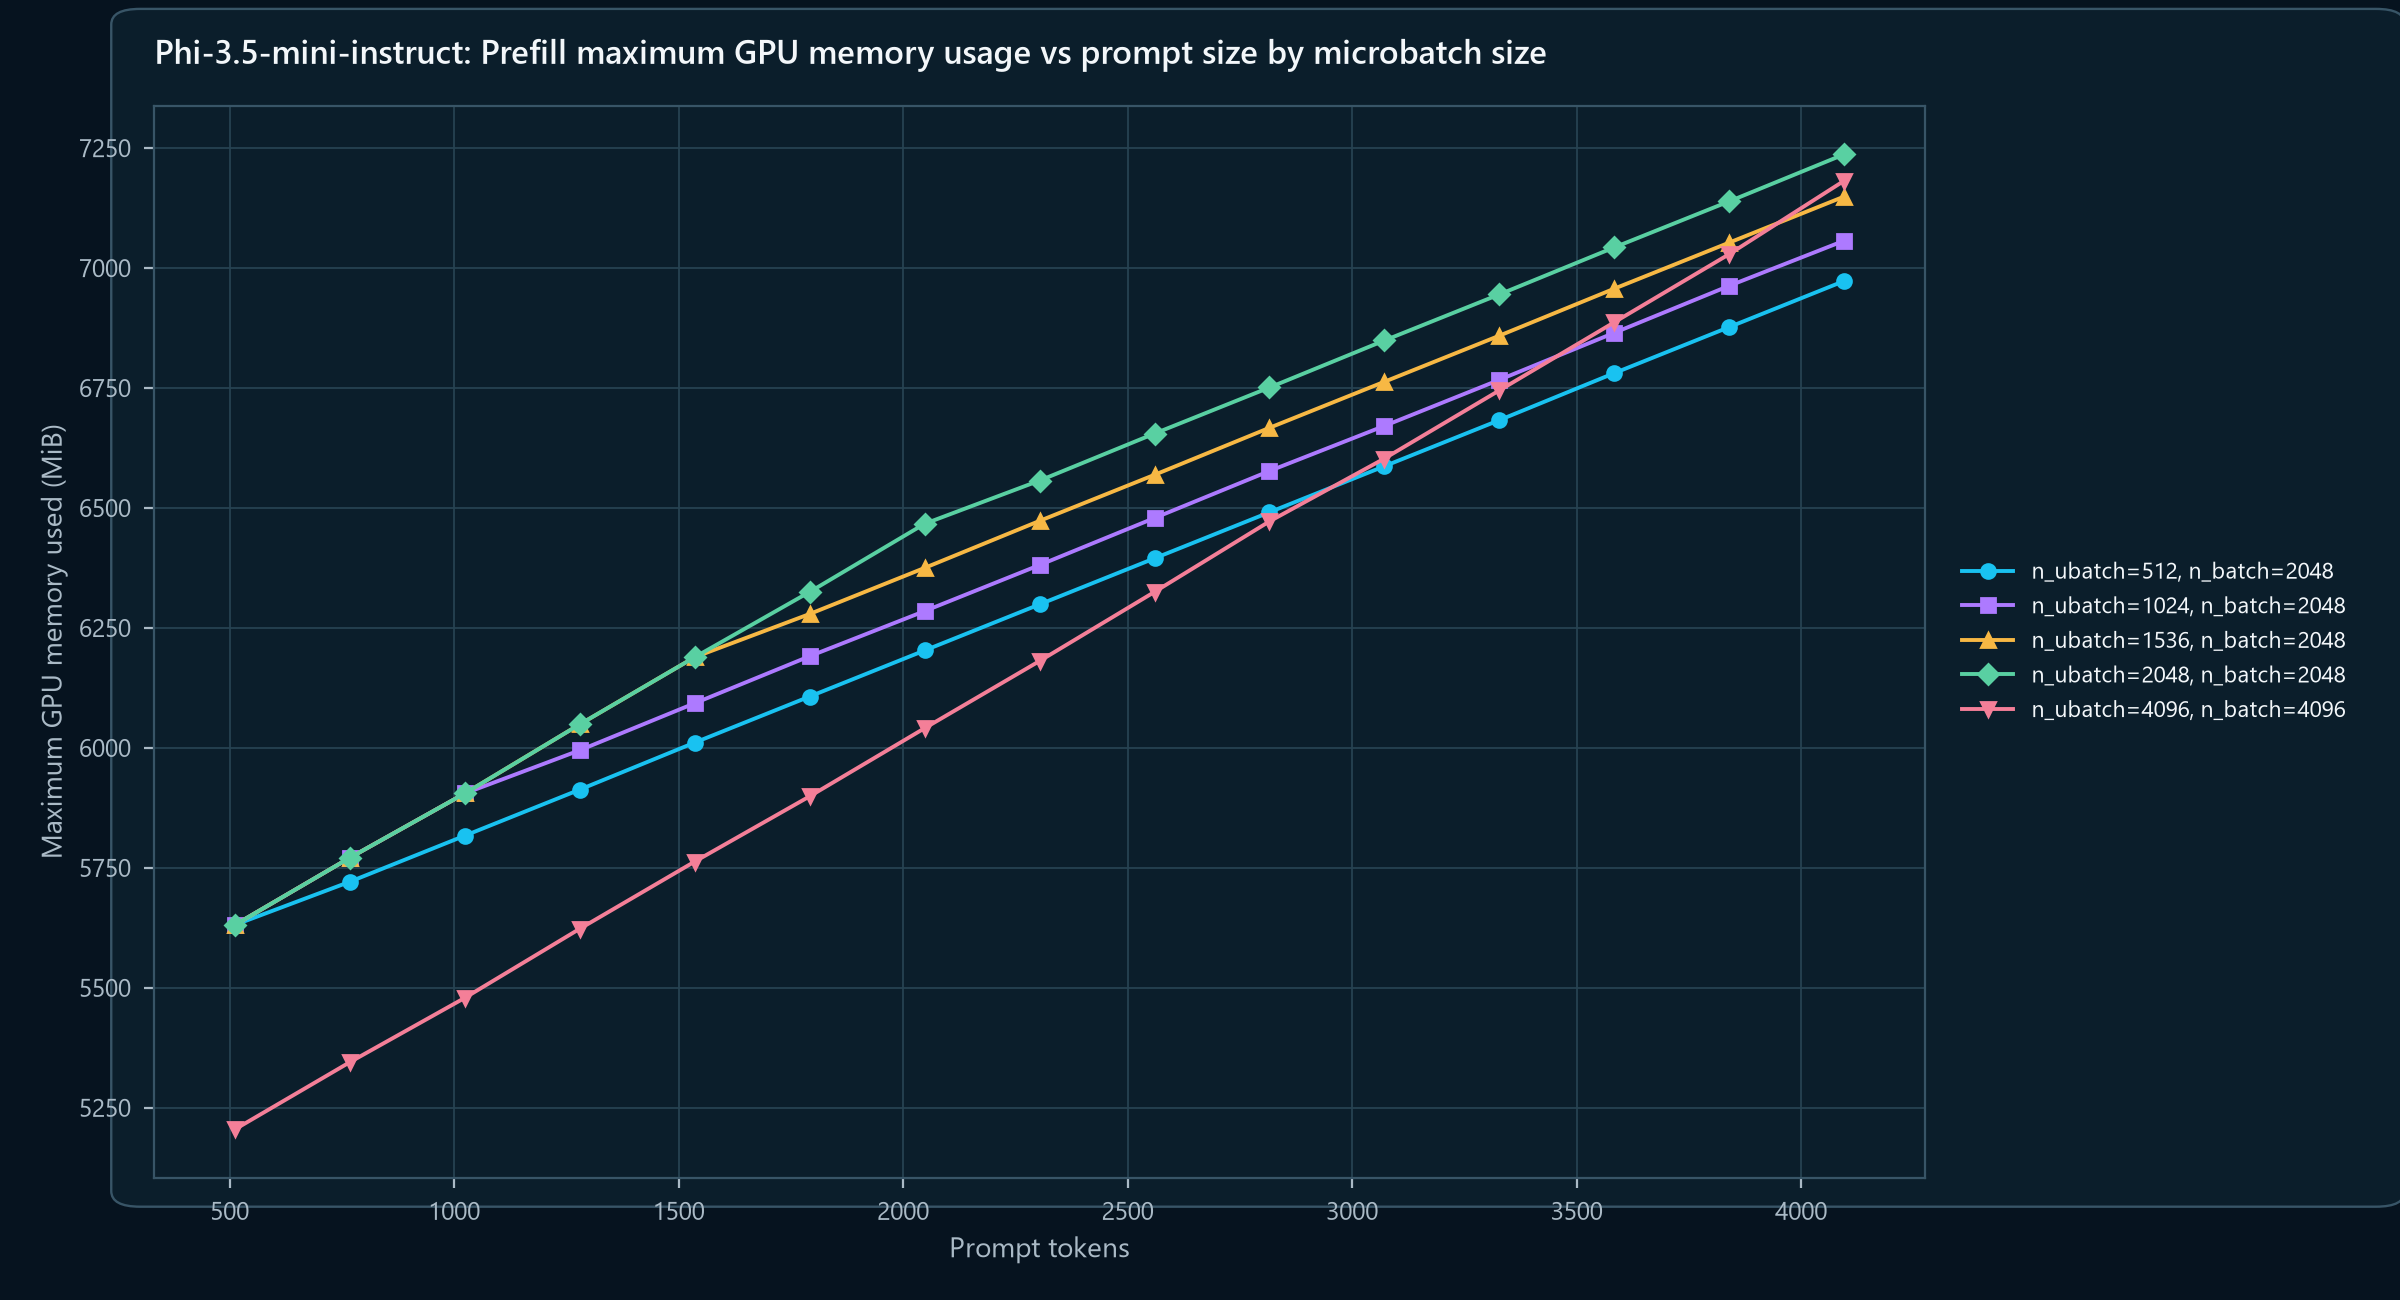
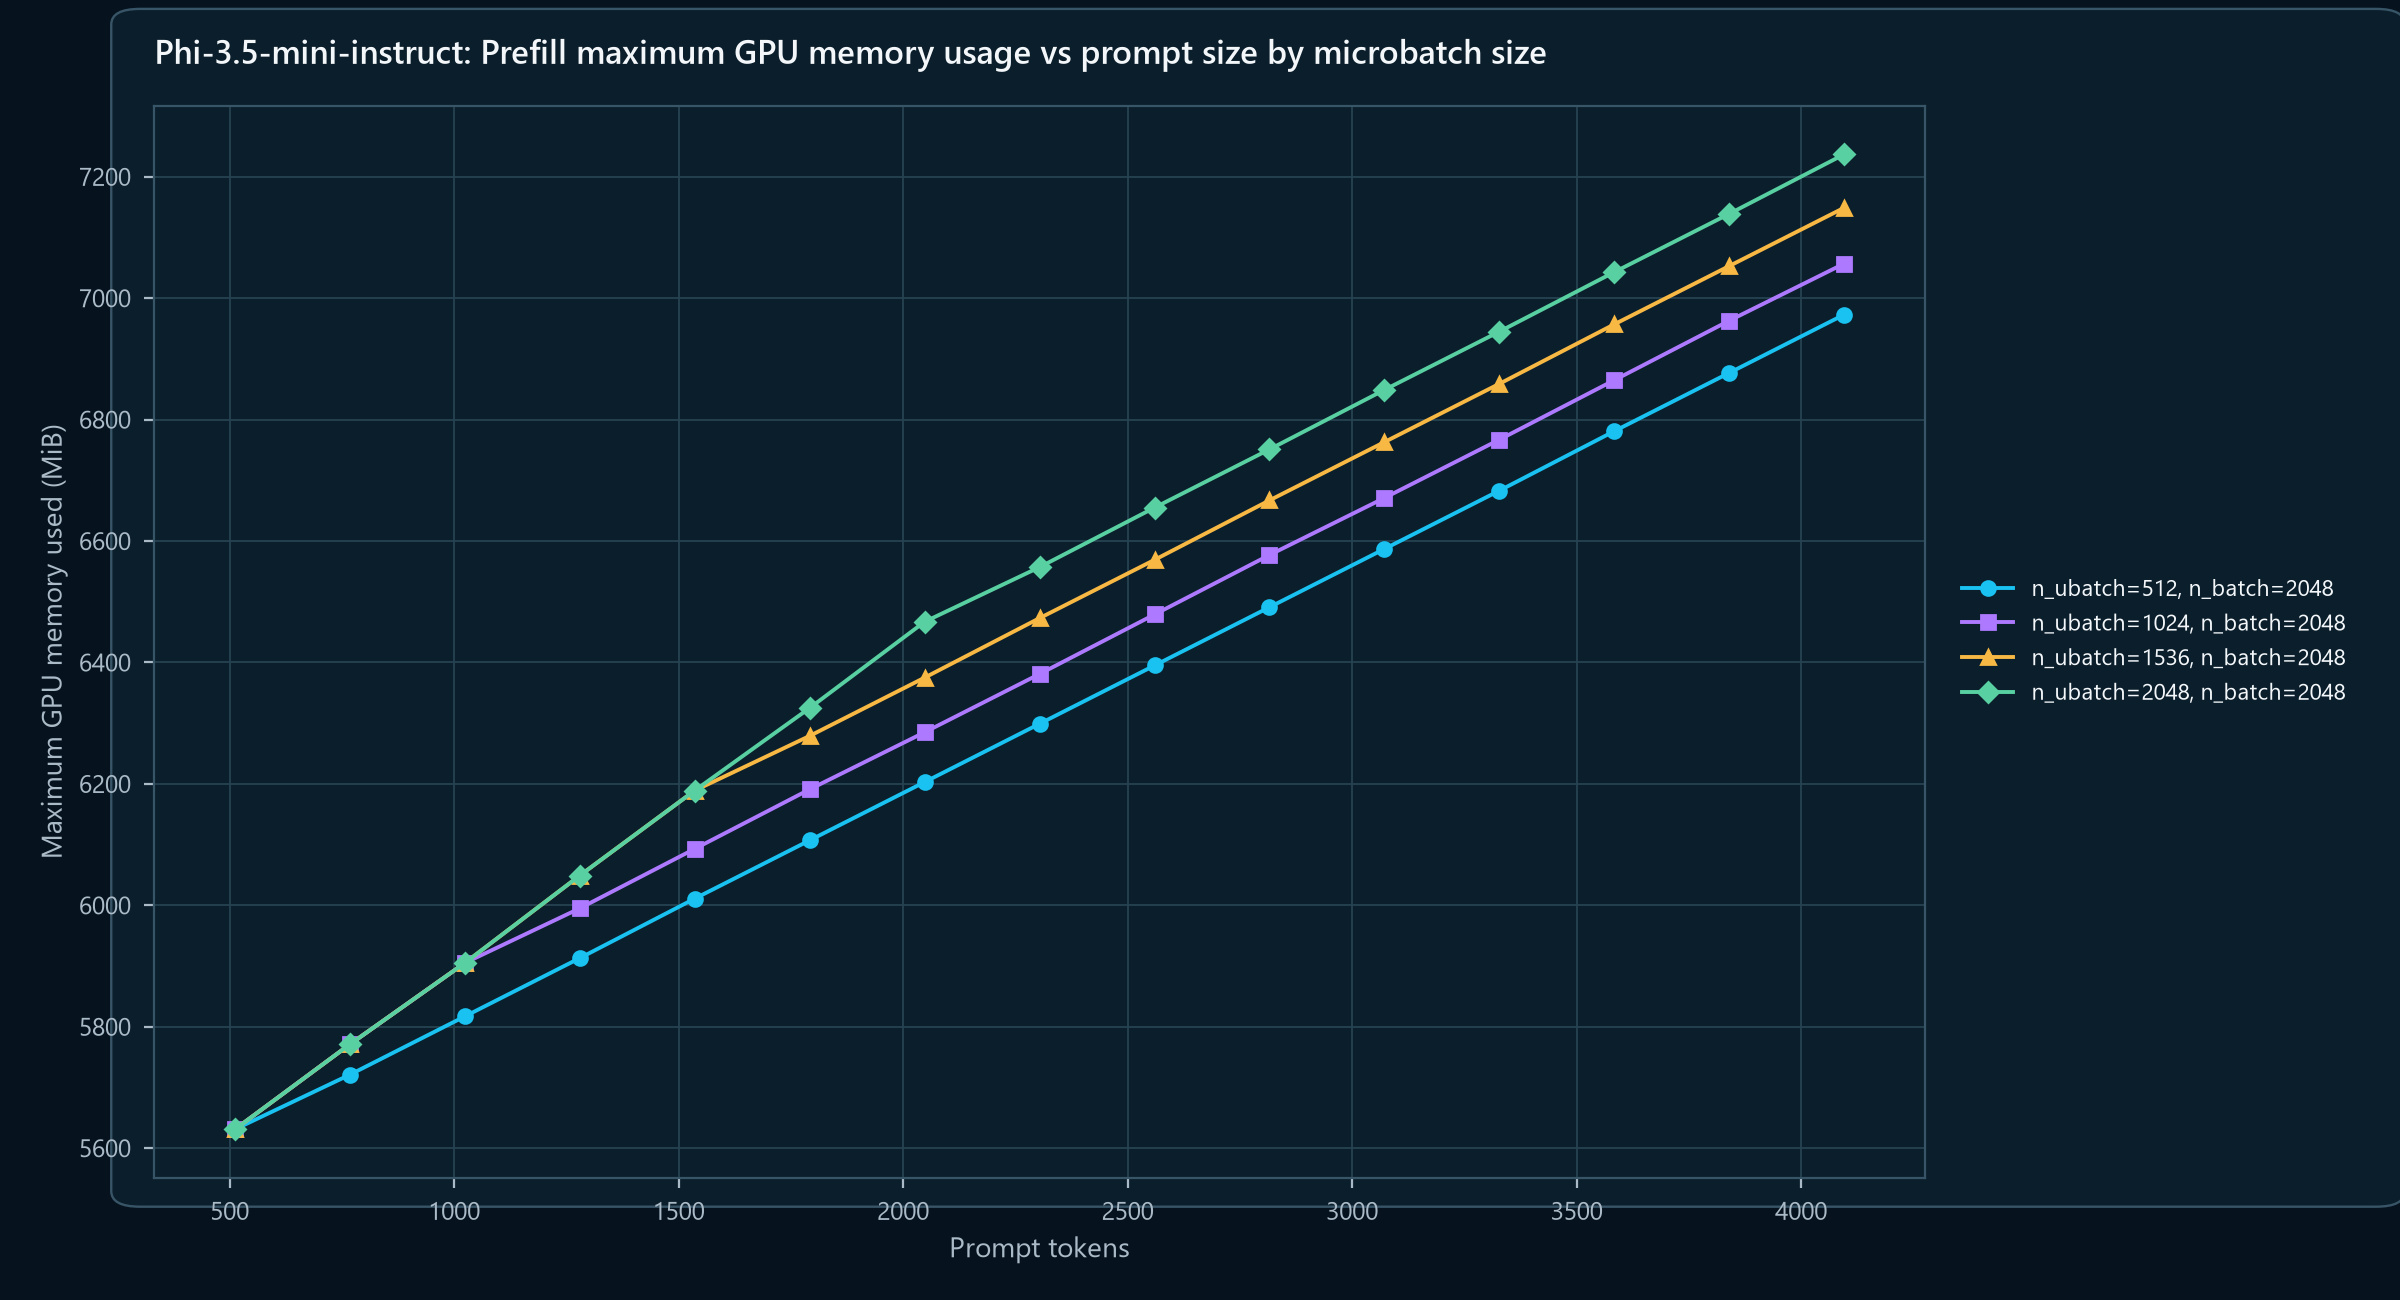
updated plots

diff --git a/plot_memory_usage_summaries.py b/plot_memory_usage_summaries.py
@@ -3,6 +3,8 @@
 Creates two plots per model family:
 1. prefill max memory vs prompt size, grouped by constant n_ubatch
 2. throughput-batch max memory vs generated tokens, grouped by constant n_ubatch
+
+Runs with batch_size=4096 are excluded to keep the summaries readable.
 """
 
 from __future__ import annotations
@@ -217,11 +219,13 @@ def save_summary_plots(
     output_root: Path,
     device: str,
 ) -> list[Path]:
-    prefill_rows = load_rows(prefill_dir)
+    prefill_rows = [
+        row for row in load_rows(prefill_dir) if int(row["batch_size"]) != 4096
+    ]
     throughput_rows = [
         row
         for row in load_rows(throughput_batch_dir)
-        if int(row["generated_tokens"]) > 0
+        if int(row["generated_tokens"]) > 0 and int(row["batch_size"]) != 4096
     ]
 
     output_dir = output_dir_for(output_root, device)
